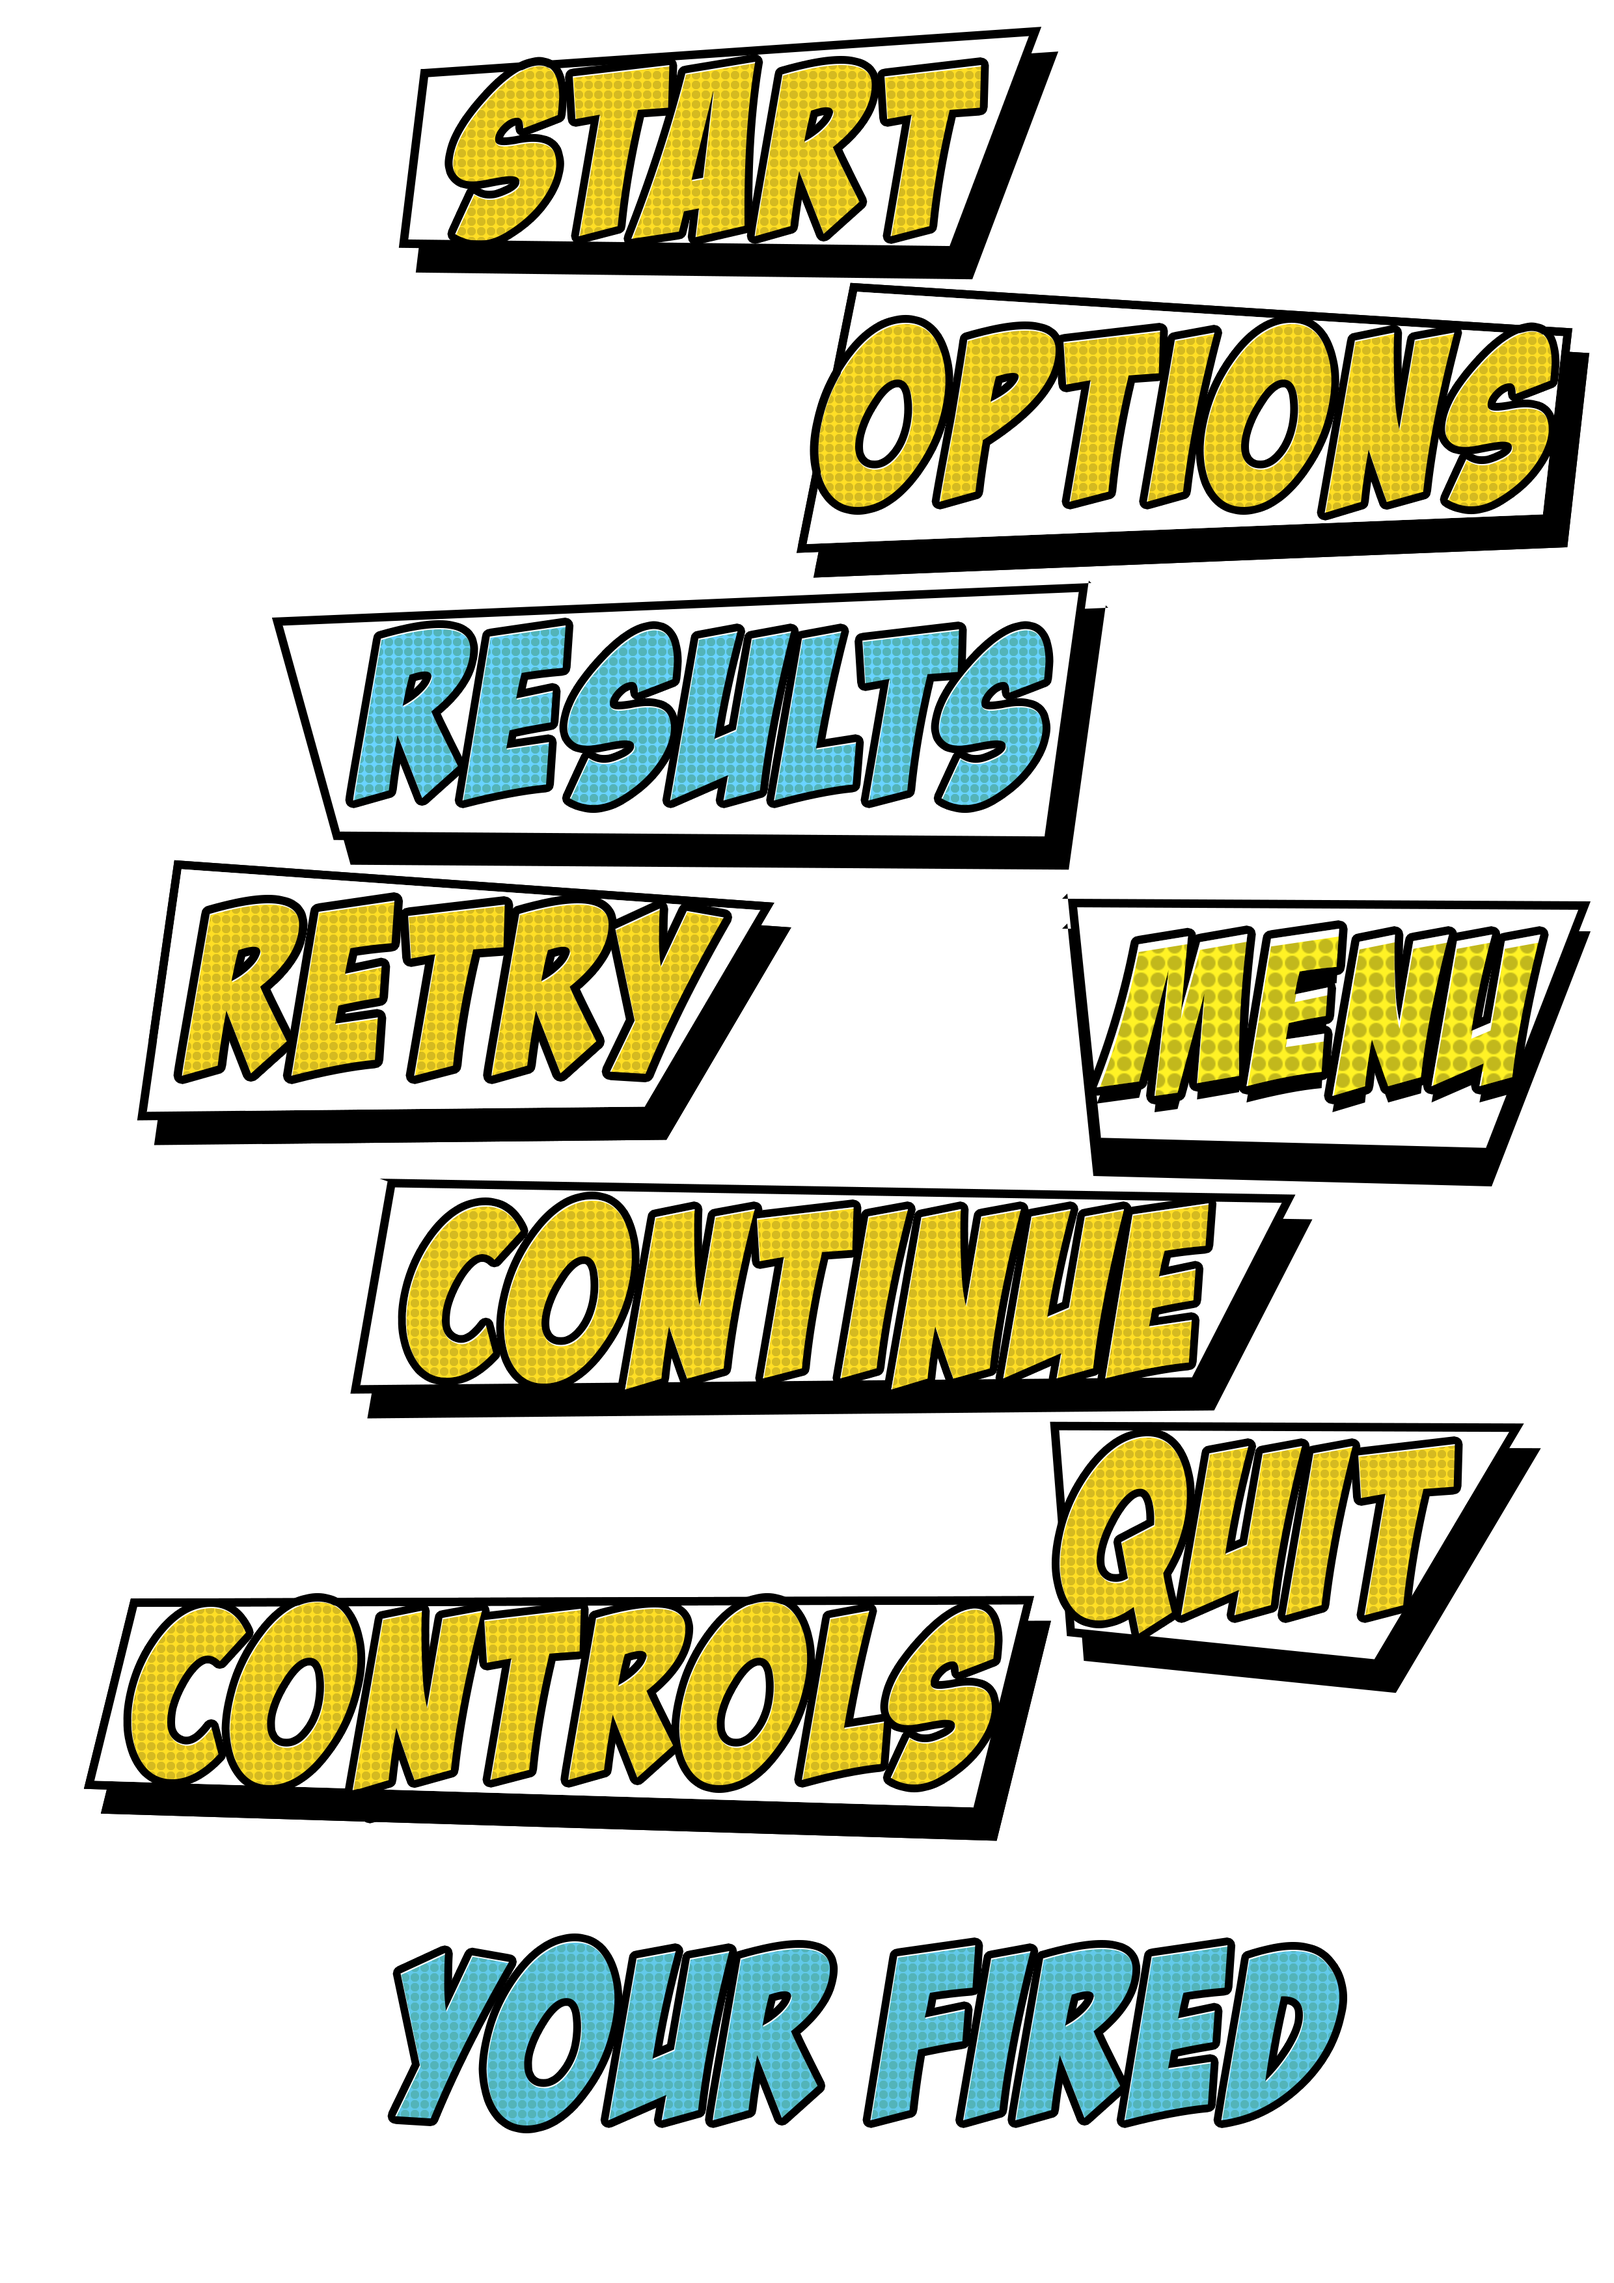
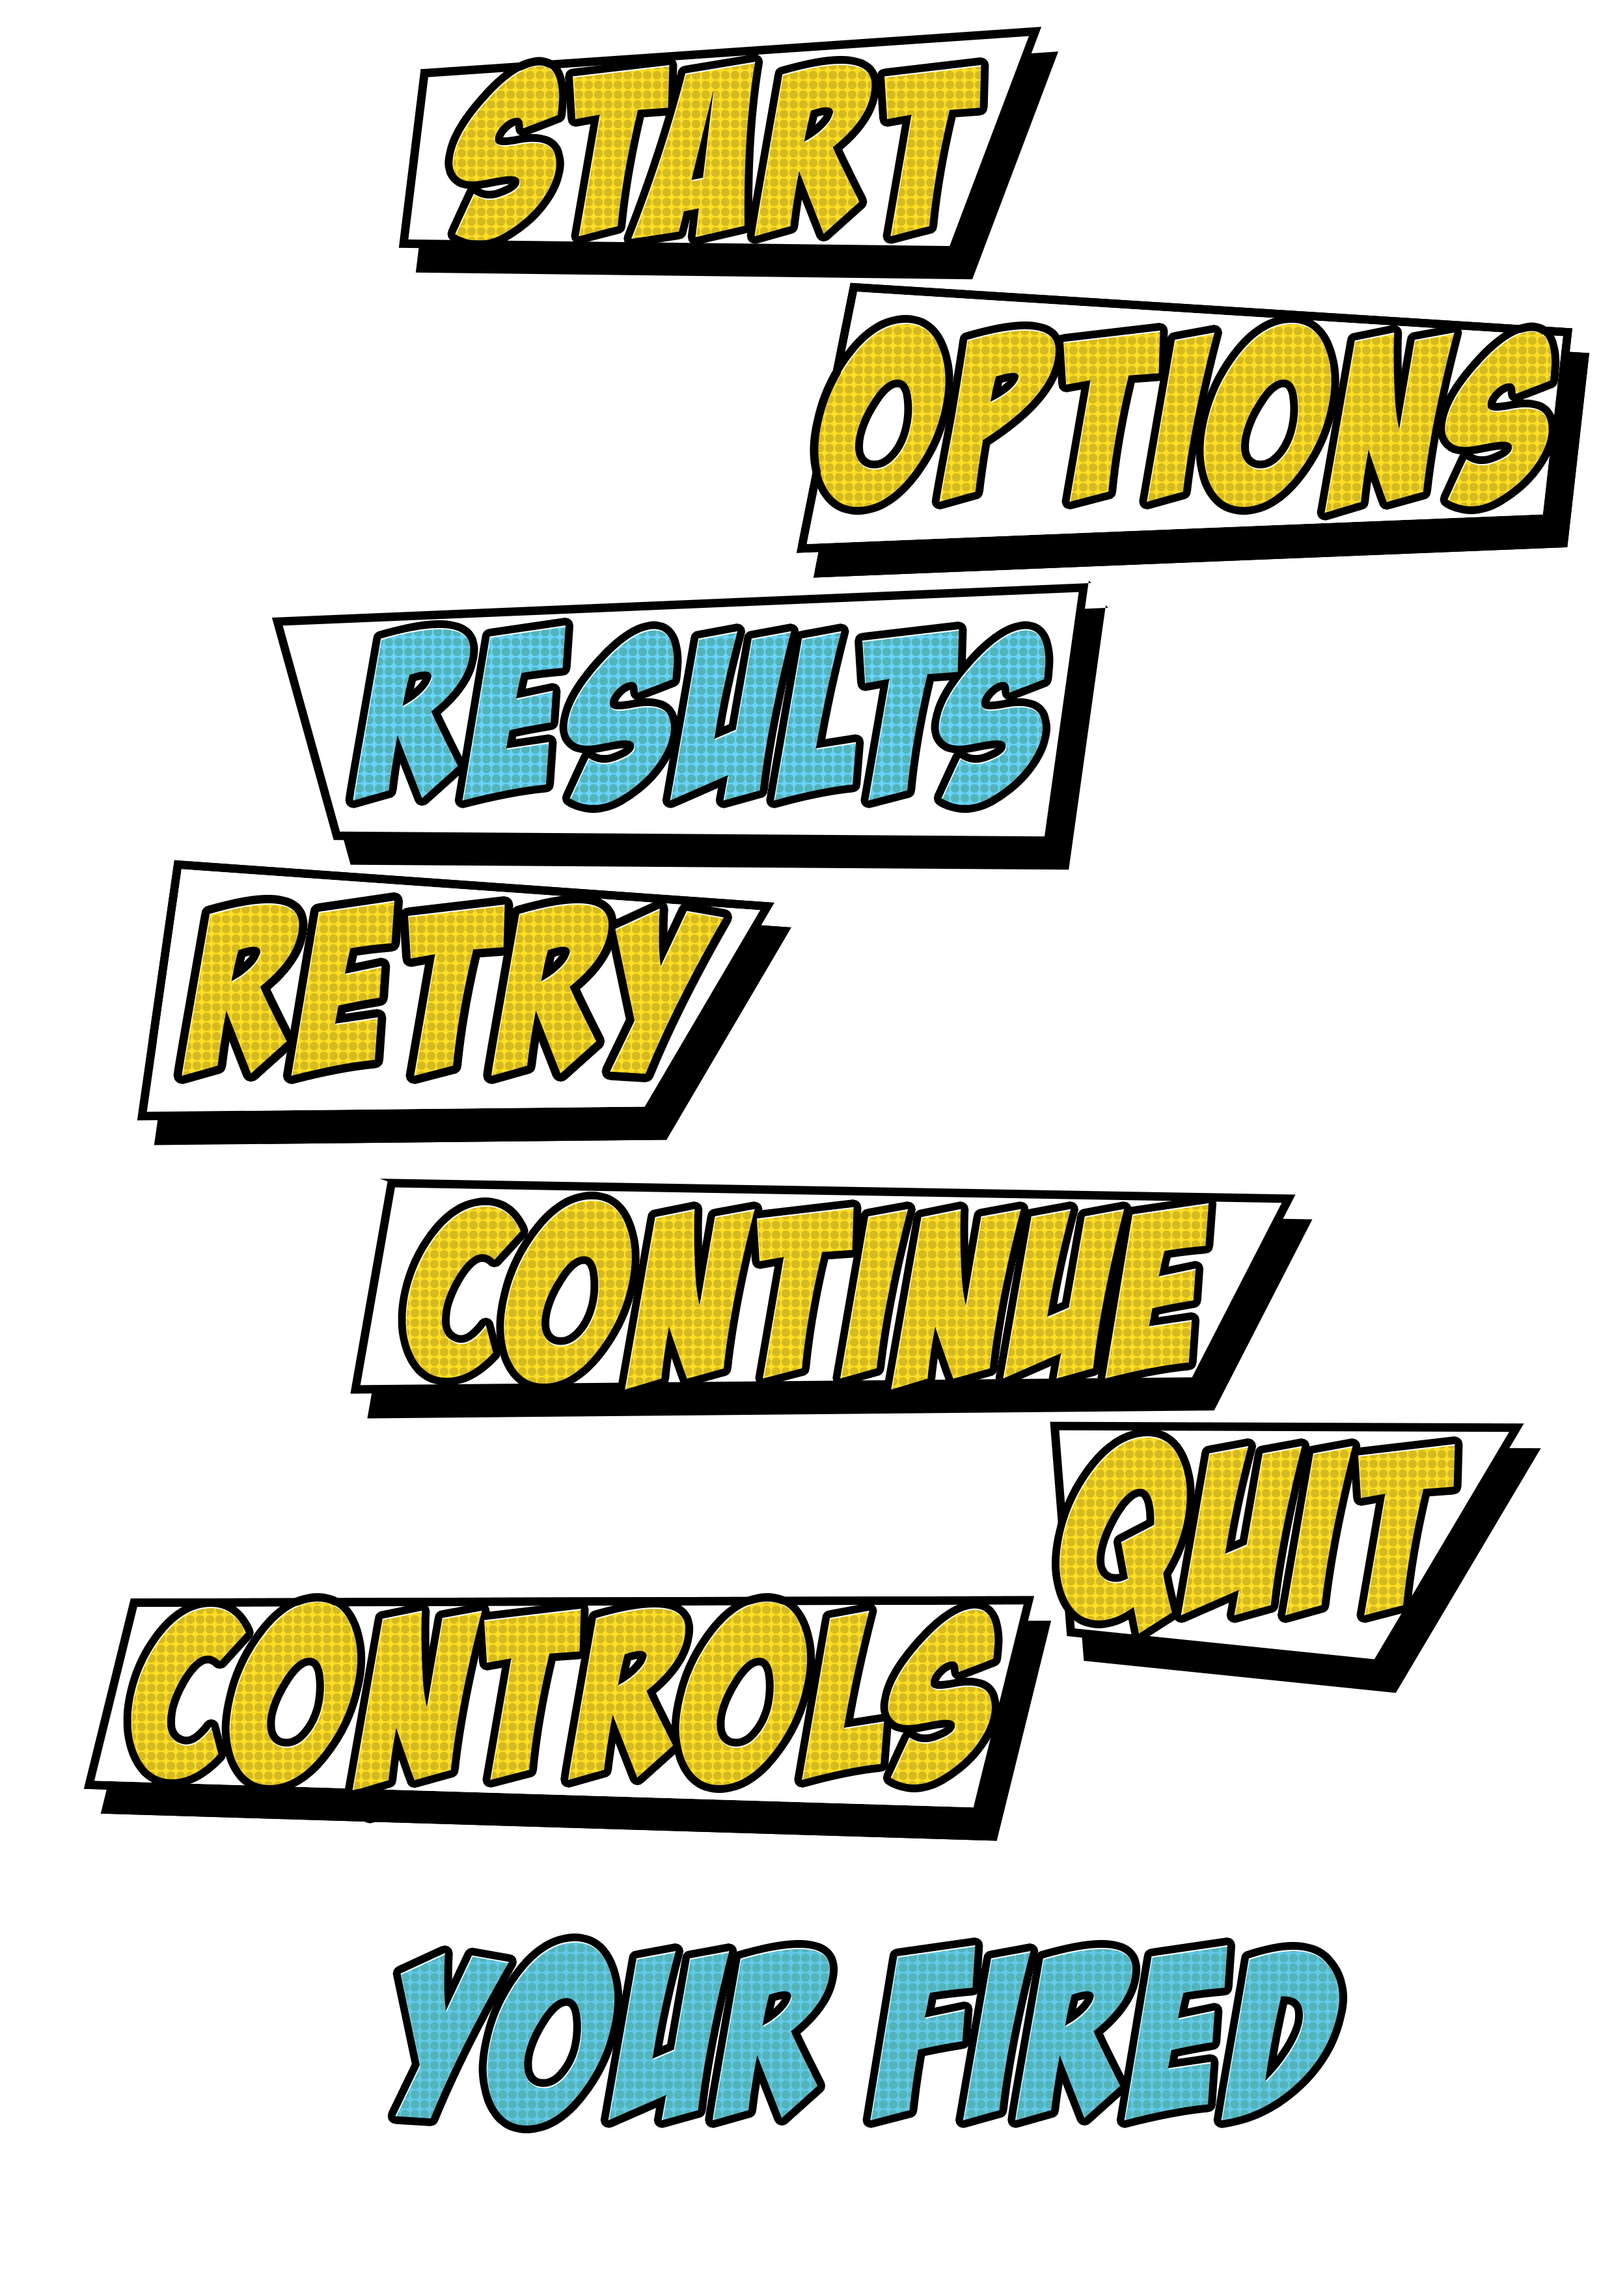
Revert "Merge branch 'master' of https://github.com/CBlan/SlingshotExpressGit"
This reverts commit 01161820cca654fdeb1beba52878d3df3081d100, reversing
changes made to cfe76494ca2b751ebeebc733d88fac74f8361c1f.

Changed region(s): [[0.652, 0.3729, 0.9935, 0.5282]]

diff --git a/Assets/Components/Scripts/Managers/SceneChange.cs b/Assets/Components/Scripts/Managers/SceneChange.cs
@@ -11,9 +11,4 @@ public class SceneChange : MonoBehaviour {
         SceneManager.LoadScene(name);
     }
 
-    public void QuitGame()
-    {
-        Application.Quit();
-    }
-
 }
